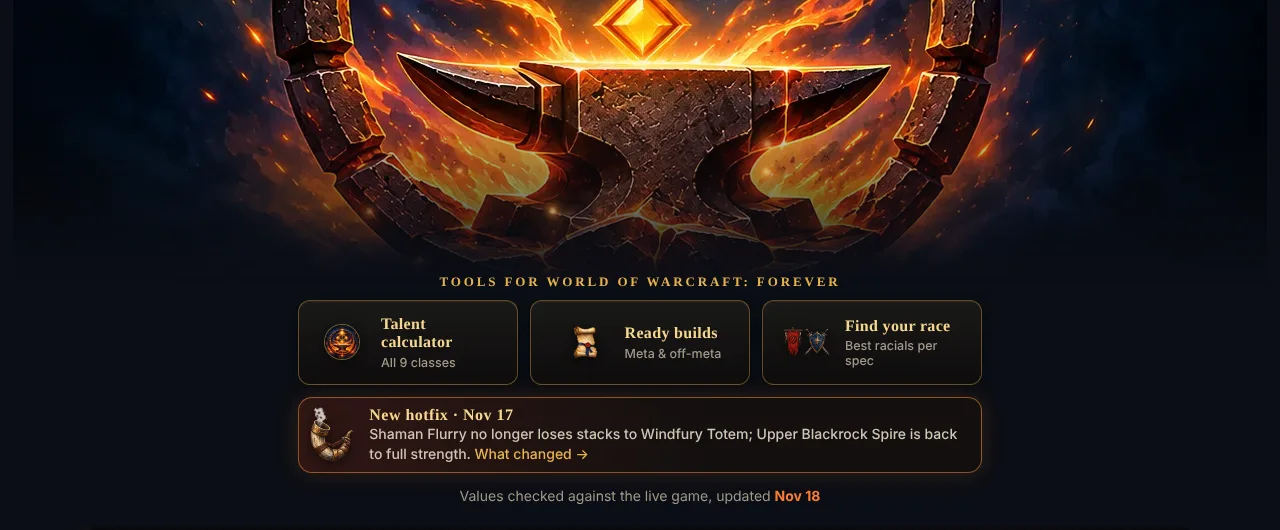
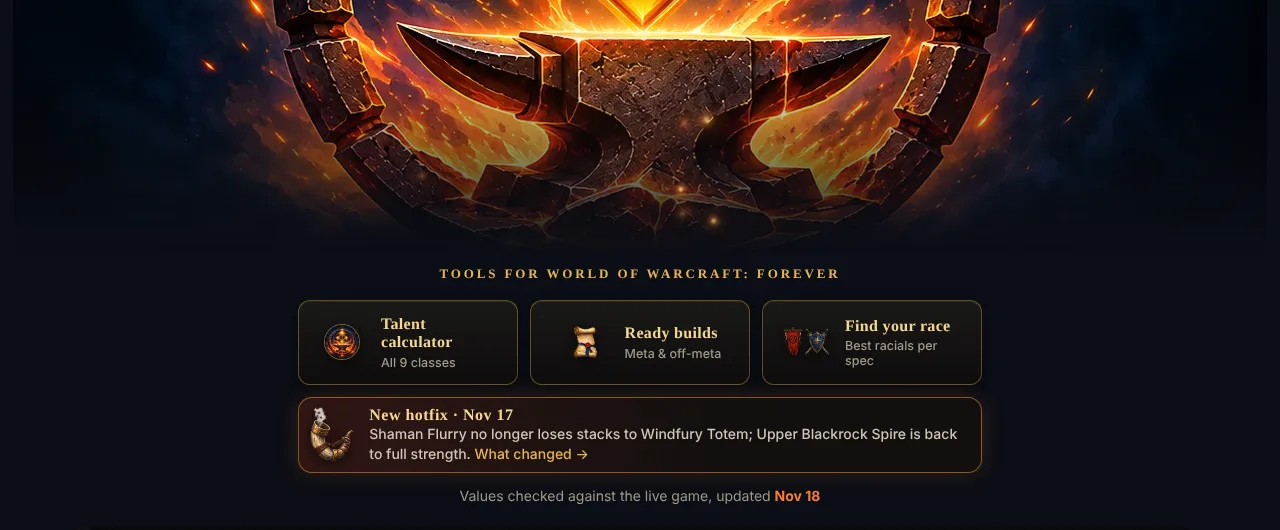
Review board: #64/#65 v2 (spacing around gold line, one-row buttons on phone)
Claude-Session: https://claude.ai/code/session_01TZvTBwK3Danco6NfbPHNFf

Changed region(s): [[0.1562, 0.0, 0.8125, 0.5434], [0.8438, 0.2113, 0.875, 0.2415]]

diff --git a/tools/review/review-tpl.html b/tools/review/review-tpl.html
@@ -69,8 +69,8 @@ h1{font:800 26px/1.15 var(--f-display);color:var(--gold-soft);margin:6px 0 4px;l
 const TODO=[
  ];
 const PROPOSALS=[
- {id:"2026-11-18-64",n:64,shots:"heroc",title:"Home top – version 1: Clean",what:"<b>No icons</b> on the 3 buttons and <b>no text under the TALENTSMITH logo</b> (the gold line and the sentence are gone). The 3 buttons are plain dark plates with a thin gold edge, one line each. Hotfix banner now as wide as the buttons. Phone keeps the 3 buttons in one row."},
- {id:"2026-11-18-65",n:65,shots:"heroa",title:"Home top – version 2: Adjusted",what:"<b>Small icons on the left</b> of each button – the Talentsmith forge badge, the sealed scroll, and the Horde banner + Alliance shield we already use on the race picker (no Pip, nothing cartoonish). Gold line under the logo now says <b>Tools for World of Warcraft: Forever</b> (no “Free”), and the sentence “Find the best race…” is gone. Each button keeps a short grey line (All 9 classes …). On phones the buttons stack as 3 rows so the icons can sit on the left."},
+ {id:"2026-11-18-64",n:64,shots:"heroc",title:"Home top – version 1: Clean (v2)",what:"Your notes done: the <b>gold line is back</b> (Free tools for World of Warcraft: Forever) with about <b>one line of space above and below</b> it, so it no longer hugs the logo. Buttons stay plain – <b>no icons</b>, one line each – and the long sentence stays gone. Hotfix banner is as wide as the buttons."},
+ {id:"2026-11-18-65",n:65,shots:"heroa",title:"Home top – version 2: Adjusted (v2)",what:"Your notes done: about <b>one line of space</b> between the logo and the gold line and between the gold line and the buttons. The 3 buttons are now <b>always in one row</b>, on phones too, with the small icon on the left. On phones the grey line under each name (All 9 classes …) is hidden so the names fit; on PC it stays. Gold line says <b>Tools for World of Warcraft: Forever</b> (no “Free”)."},
  {id:"2026-11-18-63",n:63,text:true,title:"Compare two builds – v2 (your #54 note)",what:"Same hidden prototype, changed as you asked: <b>stronger blue</b> (only in A) and <b>stronger red</b> (only in B), and each kind of node now moves differently – <b>gold</b> (in both) slowly breathes, <b>blue</b> has a light sweep across it, <b>red</b> beats like a heart, and <b>both, different ranks</b> gets a blue/red ring that spins. Try it: <a href=\"https://talentsmith.app/compare.html?c=paladin\" target=\"_blank\" rel=\"noopener\">talentsmith.app/compare.html</a>. <b>If you approve</b>, I add a small <i>Compare with…</i> link on build pages and in the calculator, drop the Prototype tag and put the page in Google."},
  {id:"2026-11-16-38",n:38,text:true,title:"Idea: \"This week\" strip on the home page",what:"A small strip under the logo: <b>Most viewed this week</b> (top 3 builds, from our own analytics – right now that would be the Shaman builds) and <b>Latest hotfix</b> with one line and a link. I update it once a week with the traffic report. Makes the site look alive and points new visitors straight at what others are using."},
 ];
